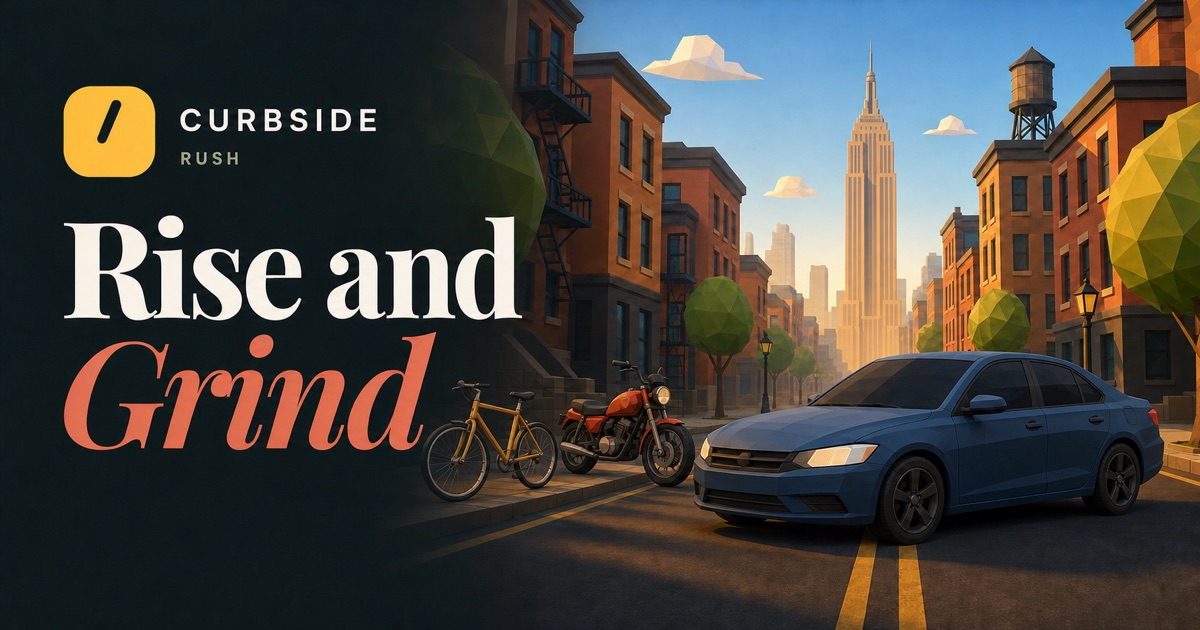
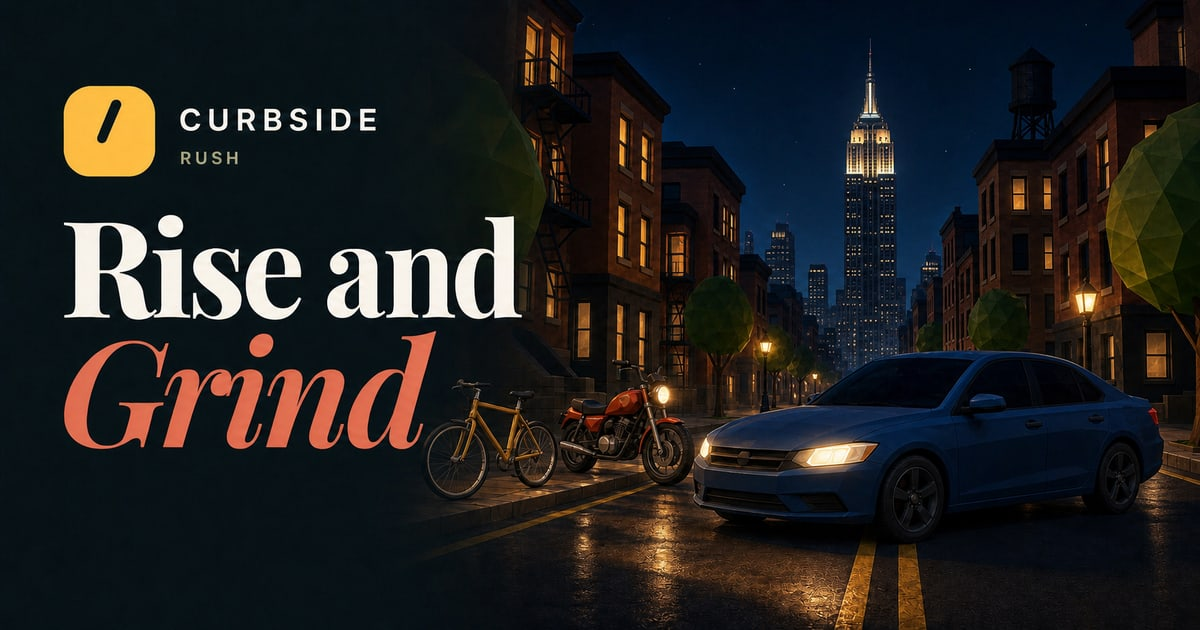
Refresh landing art for night mode

diff --git a/app/layout.tsx b/app/layout.tsx
@@ -63,11 +63,11 @@ export async function generateMetadata(): Promise<Metadata> {
       images: [
         {
           // 1200x630 is the card size every platform lays out for; the file is
-          // a ~181 KB JPEG because WhatsApp drops preview images past ~300 KB.
+          // a ~103 KB JPEG because WhatsApp drops preview images past ~300 KB.
           url: imageUrl,
           width: 1200,
           height: 630,
-          alt: "Curbside Rush key art: a bicycle, motorbike and blue sedan on a New York street under the title Rise and Grind",
+          alt: "Curbside Rush key art: a bicycle, motorbike and blue sedan on a nighttime New York street under the title Rise and Grind",
         },
       ],
     },

diff --git a/CREDITS.md b/CREDITS.md
@@ -842,15 +842,18 @@ public-space character, and currency naming:
 - **`public/landing/*.webp`** (per-city preview illustrations) — generated with
   OpenAI (ChatGPT) by the project owner, who owns the output under OpenAI's
   Terms of Use. Stylised generic city scenes; no third-party assets, logos, or
-  branding. `cairo.webp` was supplied separately by the project owner, who
-  confirmed commercial-use rights, and converted locally from the original
-  1672×941 PNG without changing the composition.
+  branding. The current nighttime variants were generated or edited with
+  OpenAI on 2026-08-16. New York, London and Tokyo preserve their original city
+  compositions while adding the blue player sedan and modern traffic. Cairo is
+  a new Central Nile composition featuring the Qasr El-Nil Bridge lions, Cairo
+  Tower, a felucca and the blue player sedan.
 - **og.jpg** (the link-preview card) — generated with OpenAI (ChatGPT) by the
   project owner on 2026-07-24, who owns the output under OpenAI's Terms of Use.
   Downloaded as `curbside-rush-og-image-generic-vehicles.jpg`. A stylised
   generic New York street with the game's own title and mark; no third-party
-  assets, marque or branding. Sized 1200x630 at ~181 KB for the reasons noted in
-  `app/layout.tsx`.
+  assets, marque or branding. Its current nighttime variant was relit with
+  OpenAI on 2026-08-16 while preserving the title, mark and layout. Sized
+  1200x630 at ~103 KB for the reasons noted in `app/layout.tsx`.
   It replaces an `og.png` that still carried the pre-rebrand "SideSwap" name.
 - **`public/vehicles/*.webp`** (Career garage card art) — generated with OpenAI
   (ChatGPT) by the project owner on 2026-07-24, who owns the output under
